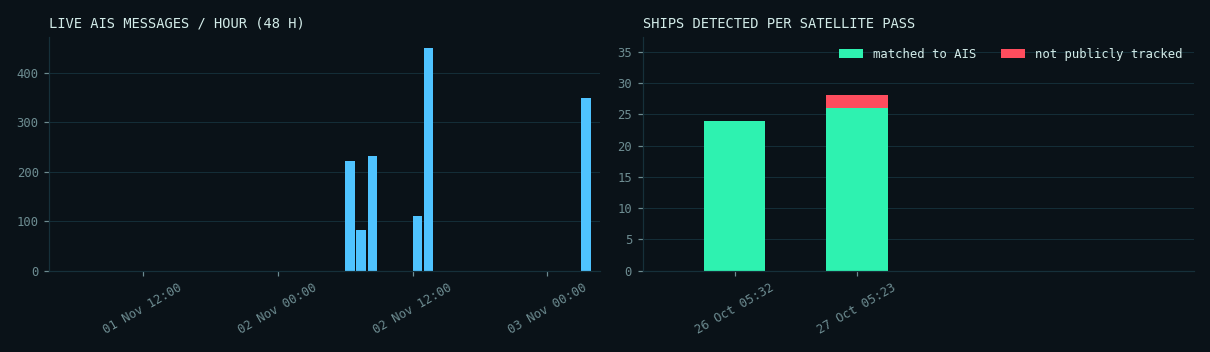
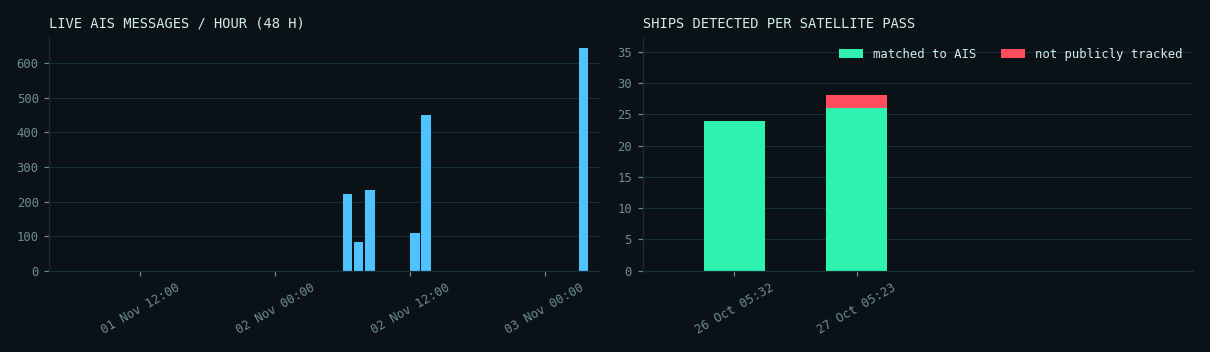
Automatic site update 2026-11-03 03:55 UTC

diff --git a/docs/denmark/index.html b/docs/denmark/index.html
@@ -83,13 +83,13 @@ footer{border-top:1px solid var(--line);padding:18px 0 28px;font:12px/1.6 var(--
   <div><div class="kicker">SAR &times; AIS &middot; MARITIME AWARENESS</div><div class="title">DARK VESSEL <b>DETECTION</b></div></div></a>
  <div class="status"><span class="pill"><span class="dot live"></span>AIS FEED <strong>LIVE</strong></span>
   <span class="pill">UTC <strong id="utc">--:--:--</strong></span>
-  <span class="pill">UPDATED <strong>03 Nov 03:41</strong></span></div>
+  <span class="pill">UPDATED <strong>03 Nov 03:55</strong></span></div>
 </div><nav class="tabs"><a class="" href="../index.html">OVERVIEW</a><a class="" href="../mumbai/index.html">MUMBAI</a><a class="on" href="../denmark/index.html">DENMARK</a><a class="" href="../nn/index.html">NEURAL NET</a><a class="" href="../demo/index.html">SIMULATION</a></nav></div></header>
 <main class="wrap"><div class="coords">SECTOR // DENMARK &middot; 55.55&ndash;55.85&deg;N &middot; 12.55&ndash;12.95&deg;E</div>
 <h1>Oresund, Copenhagen (Denmark/Sweden)</h1><p class="lede">Validation area. Sentinel-1 images it almost daily and coastal AIS coverage is dense, so the full match between radar and AIS can be shown and checked.</p>
 <div class="grid">
  <div class="panel"><div class="label">Live AIS feed</div><div class="value small"><span class='ok'>RECEIVING</span></div><div class="muted mono" style="font-size:12px;margin-top:6px">last message 0 min ago</div></div>
- <div class="panel"><div class="label">Ships broadcasting &middot; 30 min</div><div class="value cyan">58</div></div>
+ <div class="panel"><div class="label">Ships broadcasting &middot; 30 min</div><div class="value cyan">59</div></div>
  <div class="panel"><div class="label">Matched &middot; latest pass</div><div class="value ">26</div></div>
  <div class="panel"><div class="label">Not tracked &middot; high confidence</div><div class="value red">0</div></div>
  <div class="panel"><div class="label">Not tracked &middot; low confidence</div><div class="value amber">2</div></div>
@@ -98,7 +98,7 @@ footer{border-top:1px solid var(--line);padding:18px 0 28px;font:12px/1.6 var(--
 <div class="legend"><span><i style="background:var(--green)"></i>matched to AIS</span><span><i style="background:var(--red)"></i>not tracked &middot; high confidence</span>
 <span><i style="background:var(--amber)"></i>not tracked &middot; low confidence</span><span><i style="background:var(--cyan)"></i>live AIS position</span></div>
 <div id="map" class="map"></div><script>
-const D=[{"lon": 12.574560869565218, "lat": 55.849597826086956, "length_m": 72.681575622935, "score": 0.6554655519501138, "shore_km": 0.14150886088341372, "status": "matched", "reason": "", "confidence": "high", "crop": "", "ship_prob": 0.9335045218467712}, {"lon": 12.704759174311928, "lat": 55.82280412844037, "length_m": 364.1071436957287, "score": 0.9904753373251979, "shore_km": 9.407061429825474, "status": "matched", "reason": "", "confidence": "high", "crop": "", "ship_prob": 0.9868959784507751}, {"lon": 12.786416463414636, "lat": 55.804669512195126, "length_m": 155.0522474362954, "score": 0.9999646038759398, "shore_km": 4.658419014138412, "status": "matched", "reason": "", "confidence": "high", "crop": "", "ship_prob": 0.9993557333946228}, {"lon": 12.88229375, "lat": 55.849146875, "length_m": 53.38783327710226, "score": 0.9899546194309776, "shore_km": 0.9067240720863213, "status": "candidate", "reason": "same_spot_in_another_pass", "confidence": "low", "crop": "crops/S1-Oresund-20261027_37.png", "ship_prob": 0.7905591130256653}, {"lon": 12.604004166666668, "lat": 55.75985, "length_m": 141.84238362073958, "score": 0.6867268898684522, "shore_km": 0.07168283192738693, "status": "matched", "reason": "", "confidence": "high", "crop": "", "ship_prob": 0.5051270127296448}, {"lon": 12.605736764705883, "lat": 55.75241323529412, "length_m": 122.11483240811877, "score": 0.9136889320646264, "shore_km": 0.6454382429486746, "status": "candidate", "reason": "same_spot_in_another_pass", "confidence": "low", "crop": "crops/S1-Oresund-20261027_77.png", "ship_prob": 0.7927113175392151}, {"lon": 12.703722571428573, "lat": 55.77917742857143, "length_m": 223.0817648726515, "score": 0.9996320924909895, "shore_km": 5.943270442766068, "status": "matched", "reason": "", "confidence": "high", "crop": "", "ship_prob": 0.9938097596168518}, {"lon": 12.902757692307693, "lat": 55.75654230769231, "length_m": 65.46226537445588, "score": 0.7187896049600956, "shore_km": 0.03584141596369347, "status": "matched", "reason": "", "confidence": "high", "crop": "", "ship_prob": 0.8691755533218384}, {"lon": 12.589922222222222, "lat": 55.725764814814816, "length_m": 146.45480845096748, "score": 0.9957587025210503, "shore_km": 0.034771280891766385, "status": "matched", "reason": "", "confidence": "high", "crop": "", "ship_prob": 0.9983701109886169}, {"lon": 12.598472047244096, "lat": 55.72077913385827, "length_m": 207.62671185403417, "score": 0.609772230082722, "shore_km": 0.14016751439395445, "status": "matched", "reason": "", "confidence": "high", "crop": "", "ship_prob": 0.6074324250221252}, {"lon": 12.589218, "lat": 55.712854, "length_m": 90.49550243938293, "score": 0.6486089656085543, "shore_km": 0.043464101114707984, "status": "matched", "reason": "", "confidence": "high", "crop": "", "ship_prob": 0.9998902082443237}, {"lon": 12.59024090909091, "lat": 55.71147090909091, "length_m": 162.54265478639104, "score": 1.0, "shore_km": 0.06146752127277559, "status": "matched", "reason": "", "confidence": "high", "crop": "", "ship_prob": 0.9999992847442627}, {"lon": 12.597835937500001, "lat": 55.701648437500005, "length_m": 133.31776511703256, "score": 0.9396217092764791, "shore_km": 0.06789309632894441, "status": "matched", "reason": "", "confidence": "high", "crop": "", "ship_prob": 0.9999727010726929}, {"lon": 12.60914, "lat": 55.69712, "length_m": 65.36743236464424, "score": 0.7827588237578229, "shore_km": 0.03134240904220623, "status": "matched", "reason": "", "confidence": "high", "crop": "", "ship_prob": 0.9867132902145386}, {"lon": 12.668552272727274, "lat": 55.72007840909091, "length_m": 207.26605497726354, "score": 0.6251792307103263, "shore_km": 0.03584141596369347, "status": "matched", "reason": "", "confidence": "high", "crop": "", "ship_prob": 0.9087074398994446}, {"lon": 12.5996, "lat": 55.68885, "length_m": 40.00855981470757, "score": 0.7664068666153926, "shore_km": 0.024587008509110237, "status": "matched", "reason": "", "confidence": "high", "crop": "", "ship_prob": 0.9766618013381958}, {"lon": 12.595819230769232, "lat": 55.67989871794872, "length_m": 127.62371588738732, "score": 0.9426870407335851, "shore_km": 0.05068741655051085, "status": "matched", "reason": "", "confidence": "high", "crop": "", "ship_prob": 0.9998841285705566}, {"lon": 12.594722222222224, "lat": 55.67918888888889, "length_m": 40.64467714079742, "score": 0.7639524834029205, "shore_km": 0.043464101114707984, "status": "matched", "reason": "", "confidence": "high", "crop": "", "ship_prob": 0.9999454021453857}, {"lon": 12.610660714285714, "lat": 55.69618571428572, "length_m": 94.51225356515693, "score": 0.9621795096736379, "shore_km": 0.03134240904220623, "status": "matched", "reason": "", "confidence": "high", "crop": "", "ship_prob": 0.999042809009552}, {"lon": 12.649045000000001, "lat": 55.692155, "length_m": 80.63364746000343, "score": 0.8515033668168979, "shore_km": 0.8863693295037299, "status": "matched", "reason": "", "confidence": "high", "crop": "", "ship_prob": 0.4333752989768982}, {"lon": 12.630751724137932, "lat": 55.685453448275865, "length_m": 125.00287123881988, "score": 0.93629426700422, "shore_km": 0.043464101114707984, "status": "matched", "reason": "", "confidence": "high", "crop": "", "ship_prob": 0.9975905418395996}, {"lon": 12.634987254901962, "lat": 55.677338235294116, "length_m": 276.5478352749318, "score": 0.7686103584091717, "shore_km": 0.024587008509110237, "status": "matched", "reason": "", "confidence": "high", "crop": "", "ship_prob": 0.9729636907577515}, {"lon": 12.68766150442478, "lat": 55.69581814159292, "length_m": 176.8074930452176, "score": 0.923202226335388, "shore_km": 2.6834920471942074, "status": "matched", "reason": "", "confidence": "high", "crop": "", "ship_prob": 0.8427141904830933}, {"lon": 12.65826847826087, "lat": 55.63610108695652, "length_m": 174.21377549767067, "score": 0.9833187000337672, "shore_km": 0.043464101114707984, "status": "matched", "reason": "", "confidence": "high", "crop": "", "ship_prob": 0.9998973608016968}, {"lon": 12.680683333333334, "lat": 55.610910000000004, "length_m": 74.22790892756812, "score": 0.6314184609397504, "shore_km": 0.03134240904220623, "status": "matched", "reason": "", "confidence": "high", "crop": "", "ship_prob": 0.44054293632507324}, {"lon": 12.868352132196163, "lat": 55.60022420042644, "length_m": 299.20726350177785, "score": 0.9999960398718075, "shore_km": 2.8169298200726325, "status": "matched", "reason": "", "confidence": "high", "crop": "", "ship_prob": 0.9967911839485168}, {"lon": 12.680875, "lat": 55.59323, "length_m": 95.51211981545671, "score": 0.7585723176580392, "shore_km": 0.03584141596369347, "status": "matched", "reason": "", "confidence": "high", "crop": "", "ship_prob": 0.797581672668457}, {"lon": 12.706387741935485, "lat": 55.56306903225806, "length_m": 301.4640427512081, "score": 0.9999731380181186, "shore_km": 3.1965238712919084, "status": "matched", "reason": "", "confidence": "high", "crop": "", "ship_prob": 0.9941650032997131}],LIVE=[{"lon": 12.634895, "lat": 55.68713833333334, "sog": 0.0, "age": 20}, {"lon": 12.603533333333333, "lat": 55.760598333333334, "sog": 0.0, "age": 19}, {"lon": 12.82485, "lat": 55.8659, "sog": 0.0, "age": 19}, {"lon": 12.823559999999999, "lat": 55.86789, "sog": 0.0, "age": 18}, {"lon": 12.850786666666666, "lat": 55.85891, "sog": 0.0, "age": 18}, {"lon": 12.828268333333334, "lat": 55.86163833333333, "sog": 0.0, "age": 17}, {"lon": 12.680175, "lat": 55.592835, "sog": 0.0, "age": 16}, {"lon": 13.033333333333333, "lat": 55.624408333333335, "sog": 0.0, "age": 13}, {"lon": 12.82762, "lat": 55.86275333333333, "sog": 0.0, "age": 12}, {"lon": 12.832901666666666, "lat": 55.85850666666667, "sog": 0.0, "age": 10}, {"lon": 12.729261666666668, "lat": 55.97908833333334, "sog": 0.0, "age": 10}, {"lon": 12.59298, "lat": 55.679271666666665, "sog": 0.0, "age": 9}, {"lon": 12.926993333333334, "lat": 55.641331666666666, "sog": 9.8, "age": 8}, {"lon": 12.488241666666665, "lat": 55.51765666666667, "sog": 0.0, "age": 8}, {"lon": 12.676113333333332, "lat": 55.593626666666665, "sog": 0.0, "age": 7}, {"lon": 12.663706666666666, "lat": 55.412910000000004, "sog": 11.5, "age": 7}, {"lon": 12.634113333333334, "lat": 55.675765, "sog": 0.0, "age": 6}, {"lon": 12.64749, "lat": 55.67688666666666, "sog": 0.0, "age": 6}, {"lon": 12.50164, "lat": 55.610798333333335, "sog": 0.0, "age": 6}, {"lon": 12.722695, "lat": 55.90373, "sog": 0.0, "age": 6}, {"lon": 12.835308333333334, "lat": 55.85991333333333, "sog": 0.0, "age": 6}, {"lon": 12.634588333333333, "lat": 55.94622666666667, "sog": 9.9, "age": 5}, {"lon": 12.599043333333332, "lat": 55.689051666666664, "sog": 0.0, "age": 5}, {"lon": 12.692858333333334, "lat": 55.74205666666667, "sog": 8.9, "age": 4}, {"lon": 12.729696666666666, "lat": 55.75160833333334, "sog": 0.0, "age": 4}, {"lon": 12.997346666666665, "lat": 55.613663333333335, "sog": 0.1, "age": 4}, {"lon": 12.630765, "lat": 55.689825000000006, "sog": 0.0, "age": 4}, {"lon": 12.666988333333334, "lat": 55.422645, "sog": 11.3, "age": 4}, {"lon": 12.63538, "lat": 55.676458333333336, "sog": 0.0, "age": 4}, {"lon": 12.625273333333332, "lat": 55.69106166666666, "sog": 0.0, "age": 4}, {"lon": 12.594968333333332, "lat": 55.682469999999995, "sog": 0.0, "age": 3}, {"lon": 12.665853333333333, "lat": 55.71981, "sog": 0.1, "age": 3}, {"lon": 12.684268333333334, "lat": 55.68113166666667, "sog": 10.1, "age": 3}, {"lon": 12.744438333333333, "lat": 55.993233333333336, "sog": 0.0, "age": 3}, {"lon": 12.664033333333332, "lat": 55.72002833333333, "sog": 0.0, "age": 3}, {"lon": 12.892181666666666, "lat": 55.52372666666667, "sog": 0.0, "age": 2}, {"lon": 12.67652, "lat": 55.931900000000006, "sog": 0.0, "age": 2}, {"lon": 12.687466666666667, "lat": 55.47317833333333, "sog": 9.8, "age": 2}, {"lon": 12.987671666666667, "lat": 55.62129166666667, "sog": 12.6, "age": 2}, {"lon": 13.033835, "lat": 55.624585, "sog": 0.0, "age": 2}, {"lon": 12.714868333333333, "lat": 55.76176666666667, "sog": 5.6, "age": 2}, {"lon": 12.90349, "lat": 55.75664666666667, "sog": 0.1, "age": 2}, {"lon": 12.68008, "lat": 55.59289166666667, "sog": 0.0, "age": 2}, {"lon": 12.680456666666666, "lat": 55.61125166666667, "sog": 0.0, "age": 2}, {"lon": 12.830421666666666, "lat": 55.85599666666667, "sog": 0.0, "age": 2}, {"lon": 12.690488333333333, "lat": 55.75389500000001, "sog": 10.3, "age": 1}, {"lon": 12.676943333333332, "lat": 55.593995, "sog": 0.0, "age": 1}, {"lon": 12.593525, "lat": 55.679175, "sog": 0.0, "age": 1}, {"lon": 12.831928333333334, "lat": 55.85404166666667, "sog": 0.0, "age": 1}, {"lon": 12.681286666666667, "lat": 55.71724666666667, "sog": 11.1, "age": 1}, {"lon": 12.48245, "lat": 55.601416666666665, "sog": 0.0, "age": 1}, {"lon": 13.035146666666666, "lat": 55.62470166666667, "sog": 0.1, "age": 1}, {"lon": 12.744431666666665, "lat": 55.993305, "sog": 0.0, "age": 1}, {"lon": 12.646944999999999, "lat": 55.677375, "sog": 0.0, "age": 1}, {"lon": 12.823658333333332, "lat": 55.866398333333336, "sog": 0.0, "age": 0}, {"lon": 13.0585, "lat": 55.67567666666666, "sog": 0.0, "age": 0}, {"lon": 12.700321666666667, "lat": 55.84295833333333, "sog": 13.5, "age": 0}, {"lon": 12.572733333333334, "lat": 55.85083833333333, "sog": 0.0, "age": 0}],B=[[55.55,12.55],[55.85,12.95]];const m=L.map('map',{zoomSnap:.25}).fitBounds(B);
+const D=[{"lon": 12.574560869565218, "lat": 55.849597826086956, "length_m": 72.681575622935, "score": 0.6554655519501138, "shore_km": 0.14150886088341372, "status": "matched", "reason": "", "confidence": "high", "crop": "", "ship_prob": 0.9335045218467712}, {"lon": 12.704759174311928, "lat": 55.82280412844037, "length_m": 364.1071436957287, "score": 0.9904753373251979, "shore_km": 9.407061429825474, "status": "matched", "reason": "", "confidence": "high", "crop": "", "ship_prob": 0.9868959784507751}, {"lon": 12.786416463414636, "lat": 55.804669512195126, "length_m": 155.0522474362954, "score": 0.9999646038759398, "shore_km": 4.658419014138412, "status": "matched", "reason": "", "confidence": "high", "crop": "", "ship_prob": 0.9993557333946228}, {"lon": 12.88229375, "lat": 55.849146875, "length_m": 53.38783327710226, "score": 0.9899546194309776, "shore_km": 0.9067240720863213, "status": "candidate", "reason": "same_spot_in_another_pass", "confidence": "low", "crop": "crops/S1-Oresund-20261027_37.png", "ship_prob": 0.7905591130256653}, {"lon": 12.604004166666668, "lat": 55.75985, "length_m": 141.84238362073958, "score": 0.6867268898684522, "shore_km": 0.07168283192738693, "status": "matched", "reason": "", "confidence": "high", "crop": "", "ship_prob": 0.5051270127296448}, {"lon": 12.605736764705883, "lat": 55.75241323529412, "length_m": 122.11483240811877, "score": 0.9136889320646264, "shore_km": 0.6454382429486746, "status": "candidate", "reason": "same_spot_in_another_pass", "confidence": "low", "crop": "crops/S1-Oresund-20261027_77.png", "ship_prob": 0.7927113175392151}, {"lon": 12.703722571428573, "lat": 55.77917742857143, "length_m": 223.0817648726515, "score": 0.9996320924909895, "shore_km": 5.943270442766068, "status": "matched", "reason": "", "confidence": "high", "crop": "", "ship_prob": 0.9938097596168518}, {"lon": 12.902757692307693, "lat": 55.75654230769231, "length_m": 65.46226537445588, "score": 0.7187896049600956, "shore_km": 0.03584141596369347, "status": "matched", "reason": "", "confidence": "high", "crop": "", "ship_prob": 0.8691755533218384}, {"lon": 12.589922222222222, "lat": 55.725764814814816, "length_m": 146.45480845096748, "score": 0.9957587025210503, "shore_km": 0.034771280891766385, "status": "matched", "reason": "", "confidence": "high", "crop": "", "ship_prob": 0.9983701109886169}, {"lon": 12.598472047244096, "lat": 55.72077913385827, "length_m": 207.62671185403417, "score": 0.609772230082722, "shore_km": 0.14016751439395445, "status": "matched", "reason": "", "confidence": "high", "crop": "", "ship_prob": 0.6074324250221252}, {"lon": 12.589218, "lat": 55.712854, "length_m": 90.49550243938293, "score": 0.6486089656085543, "shore_km": 0.043464101114707984, "status": "matched", "reason": "", "confidence": "high", "crop": "", "ship_prob": 0.9998902082443237}, {"lon": 12.59024090909091, "lat": 55.71147090909091, "length_m": 162.54265478639104, "score": 1.0, "shore_km": 0.06146752127277559, "status": "matched", "reason": "", "confidence": "high", "crop": "", "ship_prob": 0.9999992847442627}, {"lon": 12.597835937500001, "lat": 55.701648437500005, "length_m": 133.31776511703256, "score": 0.9396217092764791, "shore_km": 0.06789309632894441, "status": "matched", "reason": "", "confidence": "high", "crop": "", "ship_prob": 0.9999727010726929}, {"lon": 12.60914, "lat": 55.69712, "length_m": 65.36743236464424, "score": 0.7827588237578229, "shore_km": 0.03134240904220623, "status": "matched", "reason": "", "confidence": "high", "crop": "", "ship_prob": 0.9867132902145386}, {"lon": 12.668552272727274, "lat": 55.72007840909091, "length_m": 207.26605497726354, "score": 0.6251792307103263, "shore_km": 0.03584141596369347, "status": "matched", "reason": "", "confidence": "high", "crop": "", "ship_prob": 0.9087074398994446}, {"lon": 12.5996, "lat": 55.68885, "length_m": 40.00855981470757, "score": 0.7664068666153926, "shore_km": 0.024587008509110237, "status": "matched", "reason": "", "confidence": "high", "crop": "", "ship_prob": 0.9766618013381958}, {"lon": 12.595819230769232, "lat": 55.67989871794872, "length_m": 127.62371588738732, "score": 0.9426870407335851, "shore_km": 0.05068741655051085, "status": "matched", "reason": "", "confidence": "high", "crop": "", "ship_prob": 0.9998841285705566}, {"lon": 12.594722222222224, "lat": 55.67918888888889, "length_m": 40.64467714079742, "score": 0.7639524834029205, "shore_km": 0.043464101114707984, "status": "matched", "reason": "", "confidence": "high", "crop": "", "ship_prob": 0.9999454021453857}, {"lon": 12.610660714285714, "lat": 55.69618571428572, "length_m": 94.51225356515693, "score": 0.9621795096736379, "shore_km": 0.03134240904220623, "status": "matched", "reason": "", "confidence": "high", "crop": "", "ship_prob": 0.999042809009552}, {"lon": 12.649045000000001, "lat": 55.692155, "length_m": 80.63364746000343, "score": 0.8515033668168979, "shore_km": 0.8863693295037299, "status": "matched", "reason": "", "confidence": "high", "crop": "", "ship_prob": 0.4333752989768982}, {"lon": 12.630751724137932, "lat": 55.685453448275865, "length_m": 125.00287123881988, "score": 0.93629426700422, "shore_km": 0.043464101114707984, "status": "matched", "reason": "", "confidence": "high", "crop": "", "ship_prob": 0.9975905418395996}, {"lon": 12.634987254901962, "lat": 55.677338235294116, "length_m": 276.5478352749318, "score": 0.7686103584091717, "shore_km": 0.024587008509110237, "status": "matched", "reason": "", "confidence": "high", "crop": "", "ship_prob": 0.9729636907577515}, {"lon": 12.68766150442478, "lat": 55.69581814159292, "length_m": 176.8074930452176, "score": 0.923202226335388, "shore_km": 2.6834920471942074, "status": "matched", "reason": "", "confidence": "high", "crop": "", "ship_prob": 0.8427141904830933}, {"lon": 12.65826847826087, "lat": 55.63610108695652, "length_m": 174.21377549767067, "score": 0.9833187000337672, "shore_km": 0.043464101114707984, "status": "matched", "reason": "", "confidence": "high", "crop": "", "ship_prob": 0.9998973608016968}, {"lon": 12.680683333333334, "lat": 55.610910000000004, "length_m": 74.22790892756812, "score": 0.6314184609397504, "shore_km": 0.03134240904220623, "status": "matched", "reason": "", "confidence": "high", "crop": "", "ship_prob": 0.44054293632507324}, {"lon": 12.868352132196163, "lat": 55.60022420042644, "length_m": 299.20726350177785, "score": 0.9999960398718075, "shore_km": 2.8169298200726325, "status": "matched", "reason": "", "confidence": "high", "crop": "", "ship_prob": 0.9967911839485168}, {"lon": 12.680875, "lat": 55.59323, "length_m": 95.51211981545671, "score": 0.7585723176580392, "shore_km": 0.03584141596369347, "status": "matched", "reason": "", "confidence": "high", "crop": "", "ship_prob": 0.797581672668457}, {"lon": 12.706387741935485, "lat": 55.56306903225806, "length_m": 301.4640427512081, "score": 0.9999731380181186, "shore_km": 3.1965238712919084, "status": "matched", "reason": "", "confidence": "high", "crop": "", "ship_prob": 0.9941650032997131}],LIVE=[{"lon": 12.82762, "lat": 55.86275333333333, "sog": 0.0, "age": 26}, {"lon": 12.663706666666666, "lat": 55.412910000000004, "sog": 11.5, "age": 21}, {"lon": 12.634113333333334, "lat": 55.675765, "sog": 0.0, "age": 20}, {"lon": 12.599043333333332, "lat": 55.689051666666664, "sog": 0.0, "age": 19}, {"lon": 12.630765, "lat": 55.689825000000006, "sog": 0.0, "age": 18}, {"lon": 12.744438333333333, "lat": 55.993233333333336, "sog": 0.0, "age": 17}, {"lon": 12.67652, "lat": 55.931900000000006, "sog": 0.0, "age": 16}, {"lon": 12.680456666666666, "lat": 55.61125166666667, "sog": 0.0, "age": 16}, {"lon": 12.830421666666666, "lat": 55.85599666666667, "sog": 0.0, "age": 16}, {"lon": 12.997345, "lat": 55.613665, "sog": 0.1, "age": 13}, {"lon": 13.033323333333334, "lat": 55.624559999999995, "sog": 0.0, "age": 12}, {"lon": 12.660731666666667, "lat": 55.404043333333334, "sog": 11.4, "age": 12}, {"lon": 12.635446666666667, "lat": 55.67646833333333, "sog": 0.0, "age": 12}, {"lon": 12.634883333333333, "lat": 55.687149999999995, "sog": 0.0, "age": 10}, {"lon": 12.682801666666668, "lat": 55.69832333333333, "sog": 10.8, "age": 9}, {"lon": 12.67611, "lat": 55.593635, "sog": 0.0, "age": 9}, {"lon": 12.82485, "lat": 55.86593333333334, "sog": 0.0, "age": 9}, {"lon": 12.625303333333333, "lat": 55.69106, "sog": 0.0, "age": 9}, {"lon": 12.66585, "lat": 55.71981, "sog": 0.0, "age": 8}, {"lon": 12.720586666666666, "lat": 55.77486333333333, "sog": 5.8, "age": 7}, {"lon": 12.942929999999999, "lat": 55.613095, "sog": 12.3, "age": 7}, {"lon": 12.82818, "lat": 55.861711666666665, "sog": 0.0, "age": 7}, {"lon": 12.832903333333332, "lat": 55.85850666666667, "sog": 0.0, "age": 6}, {"lon": 12.635610000000002, "lat": 55.910315, "sog": 10.0, "age": 6}, {"lon": 12.680176666666666, "lat": 55.592830000000006, "sog": 0.0, "age": 5}, {"lon": 12.835306666666666, "lat": 55.85993, "sog": 0.0, "age": 5}, {"lon": 12.722663333333333, "lat": 55.903733333333335, "sog": 0.0, "age": 5}, {"lon": 12.68361, "lat": 55.40688, "sog": 13.8, "age": 5}, {"lon": 13.058493333333333, "lat": 55.67565666666667, "sog": 0.0, "age": 4}, {"lon": 13.035161666666665, "lat": 55.62470666666666, "sog": 0.1, "age": 4}, {"lon": 12.729711666666667, "lat": 55.75168166666666, "sog": 0.1, "age": 3}, {"lon": 12.83193, "lat": 55.85404166666667, "sog": 0.0, "age": 3}, {"lon": 12.729058333333334, "lat": 55.97932333333333, "sog": 0.1, "age": 3}, {"lon": 12.668256666666668, "lat": 55.883095000000004, "sog": 14.1, "age": 3}, {"lon": 12.664031666666666, "lat": 55.720031666666664, "sog": 0.0, "age": 3}, {"lon": 12.572738333333332, "lat": 55.850818333333336, "sog": 0.0, "age": 3}, {"lon": 12.646941666666667, "lat": 55.67738833333333, "sog": 0.0, "age": 3}, {"lon": 12.744426666666667, "lat": 55.99329, "sog": 0.0, "age": 3}, {"lon": 12.680051666666666, "lat": 55.592908333333334, "sog": 0.0, "age": 2}, {"lon": 12.593488333333333, "lat": 55.679165, "sog": 0.0, "age": 2}, {"lon": 12.867756666666667, "lat": 55.60188333333333, "sog": 8.9, "age": 2}, {"lon": 12.823685000000001, "lat": 55.8664, "sog": 0.0, "age": 2}, {"lon": 12.999793333333335, "lat": 55.618365000000004, "sog": 0.0, "age": 2}, {"lon": 12.647506666666667, "lat": 55.67689166666666, "sog": 0.0, "age": 2}, {"lon": 12.708635, "lat": 55.79055666666667, "sog": 8.9, "age": 2}, {"lon": 12.603485000000001, "lat": 55.760515000000005, "sog": 0.0, "age": 1}, {"lon": 12.594953333333333, "lat": 55.682453333333335, "sog": 0.0, "age": 1}, {"lon": 12.90349, "lat": 55.756645000000006, "sog": 0.0, "age": 1}, {"lon": 12.892173333333334, "lat": 55.523715, "sog": 0.0, "age": 1}, {"lon": 13.033809999999999, "lat": 55.62457, "sog": 0.0, "age": 1}, {"lon": 12.710988333333335, "lat": 55.783456666666666, "sog": 8.7, "age": 1}, {"lon": 12.48246, "lat": 55.60140666666667, "sog": 0.0, "age": 1}, {"lon": 12.488291666666667, "lat": 55.517518333333335, "sog": 0.0, "age": 1}, {"lon": 12.592988333333333, "lat": 55.67927833333333, "sog": 0.0, "age": 1}, {"lon": 12.833733333333333, "lat": 55.855716666666666, "sog": 0.0, "age": 1}, {"lon": 12.693576666666667, "lat": 55.635475, "sog": 9.5, "age": 0}, {"lon": 12.676926666666667, "lat": 55.593945, "sog": 0.0, "age": 0}, {"lon": 12.501646666666666, "lat": 55.61079666666667, "sog": 0.0, "age": 0}, {"lon": 12.669806666666666, "lat": 55.429343333333335, "sog": 9.9, "age": 0}],B=[[55.55,12.55],[55.85,12.95]];const m=L.map('map',{zoomSnap:.25}).fitBounds(B);
 // re-fit once layout has settled: if the container had no size when the map was created, Leaflet falls back to zoom 0
 const refit=()=>{m.invalidateSize();m.fitBounds(B);};setTimeout(refit,0);window.addEventListener('load',refit);
 // standard OSM tiles (no API key), turned into a dark "radar console" basemap with a CSS filter (.radar-tiles)
@@ -116,7 +116,7 @@ L.control.layers(null,{'Radar detections (selected pass)':det,'Live AIS, last 30
 </script>
 <h2>Pass log</h2><div class='tablewrap'><table><thead><tr><th>pass (UTC)</th><th>ships</th><th>matched</th><th>not tracked</th><th>low conf.</th><th>match rate</th><th>AIS msgs</th></tr></thead><tbody><tr><td>2026-10-27 05:23 UTC</td><td>28</td><td class='ok'>26</td><td class='bad'>0</td><td style='color:var(--amber)'>2</td><td>93%</td><td>10687</td></tr><tr><td>2026-10-26 05:32 UTC</td><td>24</td><td class='ok'>24</td><td class='bad'>0</td><td style='color:var(--amber)'>0</td><td>100%</td><td>11603</td></tr></tbody></table></div>
 <h2>Telemetry</h2><img class="chart" src="charts.png" alt="AIS messages per hour and ships detected per pass">
-<p class="muted mono" style="font-size:12px">Feed gaps in the last 24 h: 8 (1142 min) &middot; AIS messages in the last hour: 348</p>
+<p class="muted mono" style="font-size:12px">Feed gaps in the last 24 h: 8 (1142 min) &middot; AIS messages in the last hour: 644</p>
 <h2>Recent Sentinel-1 acquisitions</h2><ul class="acq"><li>2026-11-02 05:23 UTC</li><li>2026-11-01 16:44 UTC</li><li>2026-11-01 05:31 UTC</li><li>2026-10-31 16:52 UTC</li><li>2026-10-30 17:00 UTC</li><li>2026-10-27 05:23 UTC</li><li>2026-10-26 05:32 UTC</li><li>2026-10-25 16:52 UTC</li></ul></main>
 <footer><div class="wrap">Data: Copernicus Sentinel-1 (ESA) &middot; AIS via aisstream.io and the Danish Maritime Authority &middot;
 coastlines, structures and basemap &copy; OpenStreetMap contributors. Flags are candidates for review, not accusations.</div></footer>

diff --git a/docs/index.html b/docs/index.html
@@ -83,7 +83,7 @@ footer{border-top:1px solid var(--line);padding:18px 0 28px;font:12px/1.6 var(--
   <div><div class="kicker">SAR &times; AIS &middot; MARITIME AWARENESS</div><div class="title">DARK VESSEL <b>DETECTION</b></div></div></a>
  <div class="status"><span class="pill"><span class="dot live"></span>AIS FEED <strong>LIVE</strong></span>
   <span class="pill">UTC <strong id="utc">--:--:--</strong></span>
-  <span class="pill">UPDATED <strong>03 Nov 03:41</strong></span></div>
+  <span class="pill">UPDATED <strong>03 Nov 03:55</strong></span></div>
 </div><nav class="tabs"><a class="on" href="index.html">OVERVIEW</a><a class="" href="mumbai/index.html">MUMBAI</a><a class="" href="denmark/index.html">DENMARK</a><a class="" href="nn/index.html">NEURAL NET</a><a class="" href="demo/index.html">SIMULATION</a></nav></div></header>
 <main class="wrap"><div class="coords">SYSTEM OVERVIEW</div>
 <h1>Ships the radar sees that nobody is tracking</h1>
@@ -91,7 +91,7 @@ footer{border-top:1px solid var(--line);padding:18px 0 28px;font:12px/1.6 var(--
 This system compares the two for each processed Sentinel-1 pass and lists the ships that appear on radar with no matching AIS signal.</p>
 <div class="grid" style="margin-top:18px"><div class="panel"><div class="label">Satellite passes processed</div><div class="value ">3</div></div><div class="panel"><div class="label">Ships matched to AIS</div><div class="value ">50</div></div>
 <div class="panel"><div class="label">Not tracked &middot; high confidence</div><div class="value red">0</div></div><div class="panel"><div class="label">Not tracked &middot; low confidence</div><div class="value amber">117</div></div>
-<div class="panel"><div class="label">Broadcasting now &middot; 30 min</div><div class="value cyan">58</div></div></div>
+<div class="panel"><div class="label">Broadcasting now &middot; 30 min</div><div class="value cyan">59</div></div></div>
 <p class="muted" style="font-size:13px;margin-top:10px"><b>High confidence</b> = no AIS ship nearby although the AIS feed was healthy and the
 target is within receiver range, and it is not at a spot where something was also seen on another pass. Everything else is
 <b>low confidence</b>: the data cannot support calling it dark (for example Mumbai, where no AIS was available for the pass at all).</p>
@@ -114,14 +114,14 @@ same pipeline using historical AIS. Next expected passes: Mumbai about 5 Nov 01:
 <div class="kv"><span>ships matched to AIS</span><span class="ok">50</span></div>
 <div class="kv"><span>not tracked, high confidence</span><span class="bad">0</span></div>
 <div class="kv"><span>not tracked, low confidence</span><span style="color:var(--amber)">2</span></div>
-<div class="kv"><span>broadcasting now (30 min)</span><span style="color:var(--cyan)">58</span></div>
+<div class="kv"><span>broadcasting now (30 min)</span><span style="color:var(--cyan)">59</span></div>
 <div class="go">OPEN SECTOR &rarr;</div></a></div>
 <h2>Read before trusting a flag</h2>
 <div class="alert"><b>"Not publicly tracked" is not "switched off".</b> Small boats often carry no public AIS, free AIS comes from coastal
 receivers with limited range, and ships under about 40 m are not reliably visible to the satellite. Low-confidence flags are the ones the
 data cannot support: beyond receiver range, during an AIS feed gap, or with no AIS recorded.</div>
 <h2>Automatic runs</h2><p class="muted mono" style="font-size:12.5px;margin-top:-4px">Each row is one automatic website rebuild, with the live AIS counts at that moment. Newest first.</p>
-<div class="tablewrap"><table><thead><tr><th>run (UTC)</th><th>mumbai live</th><th>mumbai msg/h</th><th>denmark live</th><th>denmark msg/h</th></tr></thead><tbody><tr><td>2026-11-03 03:41</td><td>0</td><td>0</td><td>58</td><td>348</td></tr><tr><td>2026-11-03 03:40</td><td>0</td><td>0</td><td>58</td><td>330</td></tr><tr><td>2026-11-03 03:26</td><td>0</td><td>0</td><td>31</td><td>65</td></tr><tr><td>2026-11-03 03:24</td><td>0</td><td>0</td><td>27</td><td>52</td></tr><tr><td>2026-11-02 13:37</td><td>0</td><td>0</td><td>68</td><td>479</td></tr><tr><td>2026-11-02 13:34</td><td>0</td><td>0</td><td>68</td><td>448</td></tr><tr><td>2026-11-02 13:21</td><td>0</td><td>0</td><td>63</td><td>313</td></tr><tr><td>2026-11-02 13:05</td><td>0</td><td>0</td><td>62</td><td>160</td></tr><tr><td>2026-11-02 12:58</td><td>0</td><td>0</td><td>50</td><td>96</td></tr><tr><td>2026-11-02 12:42</td><td>0</td><td>0</td><td>9</td><td>9</td></tr><tr><td>2026-11-02 08:09</td><td>0</td><td>0</td><td>62</td><td>171</td></tr><tr><td>2026-11-02 07:53</td><td>0</td><td>0</td><td>19</td><td>49</td></tr><tr><td>2026-11-02 07:39</td><td>0</td><td>0</td><td>0</td><td>166</td></tr><tr><td>2026-11-02 07:27</td><td>0</td><td>0</td><td>0</td><td>222</td></tr><tr><td>2026-11-02 06:48</td><td>0</td><td>0</td><td>58</td><td>148</td></tr><tr><td>2026-11-02 06:33</td><td>0</td><td>0</td><td>5</td><td>6</td></tr><tr><td>2026-11-02 06:29</td><td>0</td><td>0</td><td>0</td><td>0</td></tr><tr><td>2026-11-02 06:25</td><td>0</td><td>0</td><td>0</td><td>0</td></tr><tr><td>2026-11-02 06:20</td><td>0</td><td>0</td><td>0</td><td>0</td></tr><tr><td>2026-11-02 06:10</td><td>0</td><td>0</td><td>0</td><td>0</td></tr><tr><td>2026-11-02 05:55</td><td>0</td><td>0</td><td>36</td><td>341</td></tr><tr><td>2026-11-02 05:40</td><td>0</td><td>0</td><td>38</td><td>353</td></tr><tr><td>2026-11-02 05:24</td><td>0</td><td>0</td><td>35</td><td>311</td></tr><tr><td>2026-11-02 05:09</td><td>0</td><td>0</td><td>36</td><td>222</td></tr></tbody></table></div></main>
+<div class="tablewrap"><table><thead><tr><th>run (UTC)</th><th>mumbai live</th><th>mumbai msg/h</th><th>denmark live</th><th>denmark msg/h</th></tr></thead><tbody><tr><td>2026-11-03 03:55</td><td>0</td><td>0</td><td>59</td><td>644</td></tr><tr><td>2026-11-03 03:41</td><td>0</td><td>0</td><td>58</td><td>348</td></tr><tr><td>2026-11-03 03:40</td><td>0</td><td>0</td><td>58</td><td>330</td></tr><tr><td>2026-11-03 03:26</td><td>0</td><td>0</td><td>31</td><td>65</td></tr><tr><td>2026-11-03 03:24</td><td>0</td><td>0</td><td>27</td><td>52</td></tr><tr><td>2026-11-02 13:37</td><td>0</td><td>0</td><td>68</td><td>479</td></tr><tr><td>2026-11-02 13:34</td><td>0</td><td>0</td><td>68</td><td>448</td></tr><tr><td>2026-11-02 13:21</td><td>0</td><td>0</td><td>63</td><td>313</td></tr><tr><td>2026-11-02 13:05</td><td>0</td><td>0</td><td>62</td><td>160</td></tr><tr><td>2026-11-02 12:58</td><td>0</td><td>0</td><td>50</td><td>96</td></tr><tr><td>2026-11-02 12:42</td><td>0</td><td>0</td><td>9</td><td>9</td></tr><tr><td>2026-11-02 08:09</td><td>0</td><td>0</td><td>62</td><td>171</td></tr><tr><td>2026-11-02 07:53</td><td>0</td><td>0</td><td>19</td><td>49</td></tr><tr><td>2026-11-02 07:39</td><td>0</td><td>0</td><td>0</td><td>166</td></tr><tr><td>2026-11-02 07:27</td><td>0</td><td>0</td><td>0</td><td>222</td></tr><tr><td>2026-11-02 06:48</td><td>0</td><td>0</td><td>58</td><td>148</td></tr><tr><td>2026-11-02 06:33</td><td>0</td><td>0</td><td>5</td><td>6</td></tr><tr><td>2026-11-02 06:29</td><td>0</td><td>0</td><td>0</td><td>0</td></tr><tr><td>2026-11-02 06:25</td><td>0</td><td>0</td><td>0</td><td>0</td></tr><tr><td>2026-11-02 06:20</td><td>0</td><td>0</td><td>0</td><td>0</td></tr><tr><td>2026-11-02 06:10</td><td>0</td><td>0</td><td>0</td><td>0</td></tr><tr><td>2026-11-02 05:55</td><td>0</td><td>0</td><td>36</td><td>341</td></tr><tr><td>2026-11-02 05:40</td><td>0</td><td>0</td><td>38</td><td>353</td></tr><tr><td>2026-11-02 05:24</td><td>0</td><td>0</td><td>35</td><td>311</td></tr></tbody></table></div></main>
 <footer><div class="wrap">Data: Copernicus Sentinel-1 (ESA) &middot; AIS via aisstream.io and the Danish Maritime Authority &middot;
 coastlines, structures and basemap &copy; OpenStreetMap contributors. Flags are candidates for review, not accusations.</div></footer>
 <script>(function(){const e=document.getElementById('utc');const t=()=>e.textContent=new Date().toISOString().slice(11,19);t();setInterval(t,1000);})();</script>

diff --git a/docs/mumbai/index.html b/docs/mumbai/index.html
@@ -83,7 +83,7 @@ footer{border-top:1px solid var(--line);padding:18px 0 28px;font:12px/1.6 var(--
   <div><div class="kicker">SAR &times; AIS &middot; MARITIME AWARENESS</div><div class="title">DARK VESSEL <b>DETECTION</b></div></div></a>
  <div class="status"><span class="pill"><span class="dot live"></span>AIS FEED <strong>LIVE</strong></span>
   <span class="pill">UTC <strong id="utc">--:--:--</strong></span>
-  <span class="pill">UPDATED <strong>03 Nov 03:41</strong></span></div>
+  <span class="pill">UPDATED <strong>03 Nov 03:55</strong></span></div>
 </div><nav class="tabs"><a class="" href="../index.html">OVERVIEW</a><a class="on" href="../mumbai/index.html">MUMBAI</a><a class="" href="../denmark/index.html">DENMARK</a><a class="" href="../nn/index.html">NEURAL NET</a><a class="" href="../demo/index.html">SIMULATION</a></nav></div></header>
 <main class="wrap"><div class="coords">SECTOR // MUMBAI &middot; 18.80&ndash;19.10&deg;N &middot; 72.55&ndash;72.95&deg;E</div>
 <h1>Mumbai coast and harbour, India</h1><p class="lede">The project's target area. Sentinel-1 images it about once every 12 days, and free AIS comes only from coastal receivers, so many unmatched ships here are simply out of receiver range.</p>

diff --git a/docs/demo/index.html b/docs/demo/index.html
@@ -83,7 +83,7 @@ footer{border-top:1px solid var(--line);padding:18px 0 28px;font:12px/1.6 var(--
   <div><div class="kicker">SAR &times; AIS &middot; MARITIME AWARENESS</div><div class="title">DARK VESSEL <b>DETECTION</b></div></div></a>
  <div class="status"><span class="pill"><span class="dot live"></span>AIS FEED <strong>LIVE</strong></span>
   <span class="pill">UTC <strong id="utc">--:--:--</strong></span>
-  <span class="pill">UPDATED <strong>03 Nov 03:41</strong></span></div>
+  <span class="pill">UPDATED <strong>03 Nov 03:55</strong></span></div>
 </div><nav class="tabs"><a class="" href="../index.html">OVERVIEW</a><a class="" href="../mumbai/index.html">MUMBAI</a><a class="" href="../denmark/index.html">DENMARK</a><a class="" href="../nn/index.html">NEURAL NET</a><a class="on" href="../demo/index.html">SIMULATION</a></nav></div></header>
 <main class="wrap"><div class="coords">SIMULATION // SYNTHETIC SCENES WITH KNOWN GROUND TRUTH</div>
 <h1>Simulation: the whole pipeline with a known answer</h1>

diff --git a/docs/nn/index.html b/docs/nn/index.html
@@ -83,7 +83,7 @@ footer{border-top:1px solid var(--line);padding:18px 0 28px;font:12px/1.6 var(--
   <div><div class="kicker">SAR &times; AIS &middot; MARITIME AWARENESS</div><div class="title">DARK VESSEL <b>DETECTION</b></div></div></a>
  <div class="status"><span class="pill"><span class="dot live"></span>AIS FEED <strong>LIVE</strong></span>
   <span class="pill">UTC <strong id="utc">--:--:--</strong></span>
-  <span class="pill">UPDATED <strong>03 Nov 03:41</strong></span></div>
+  <span class="pill">UPDATED <strong>03 Nov 03:55</strong></span></div>
 </div><nav class="tabs"><a class="" href="../index.html">OVERVIEW</a><a class="" href="../mumbai/index.html">MUMBAI</a><a class="" href="../denmark/index.html">DENMARK</a><a class="on" href="../nn/index.html">NEURAL NET</a><a class="" href="../demo/index.html">SIMULATION</a></nav></div></header>
 <main class="wrap"><div class="coords">NEURAL NETWORK // SHIPCNN</div>
 <h1>ShipCNN: our own convolutional network that decides "is this a ship?"</h1>
